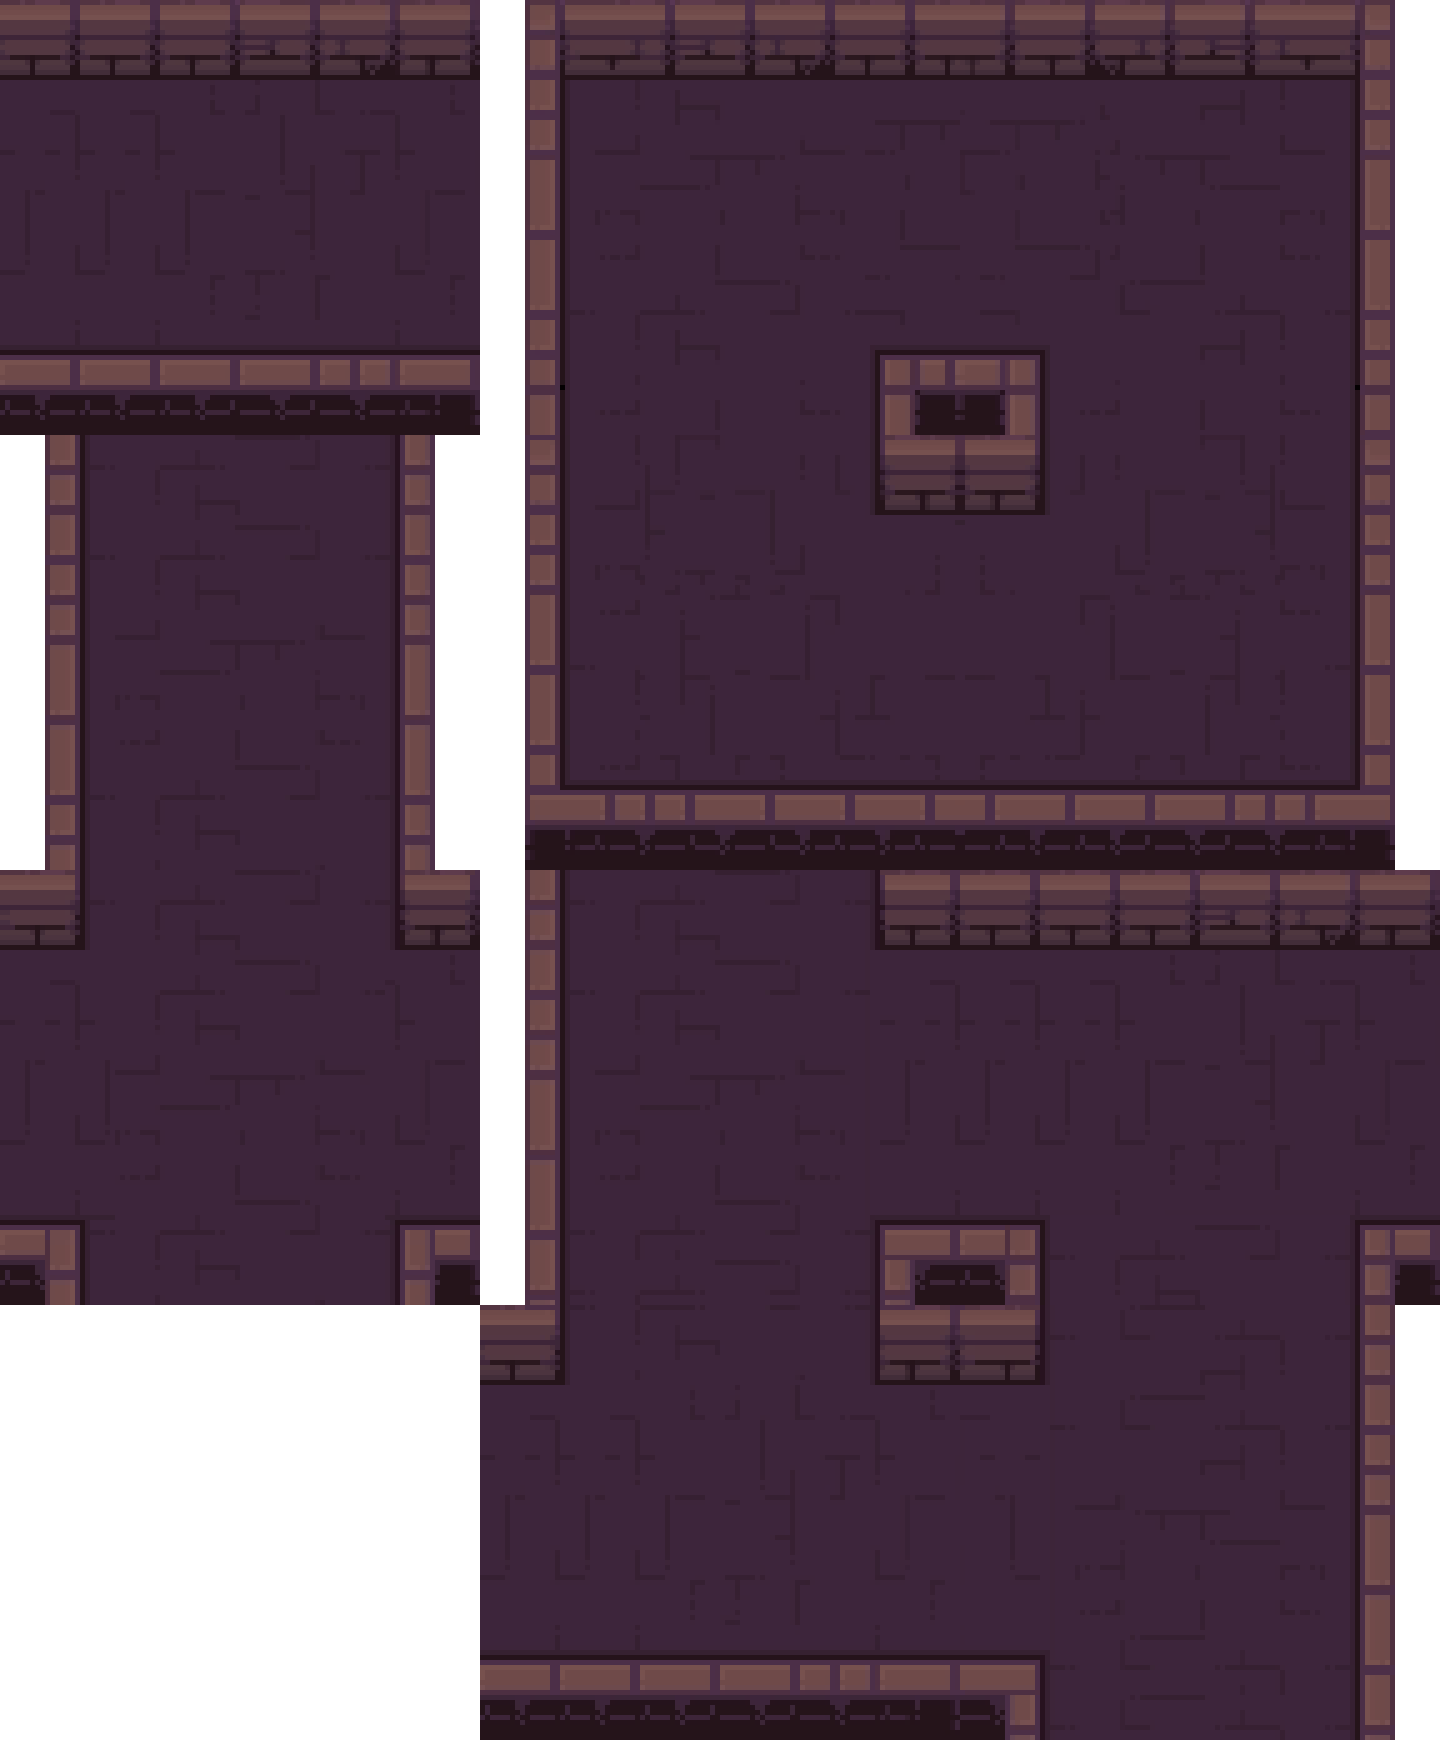
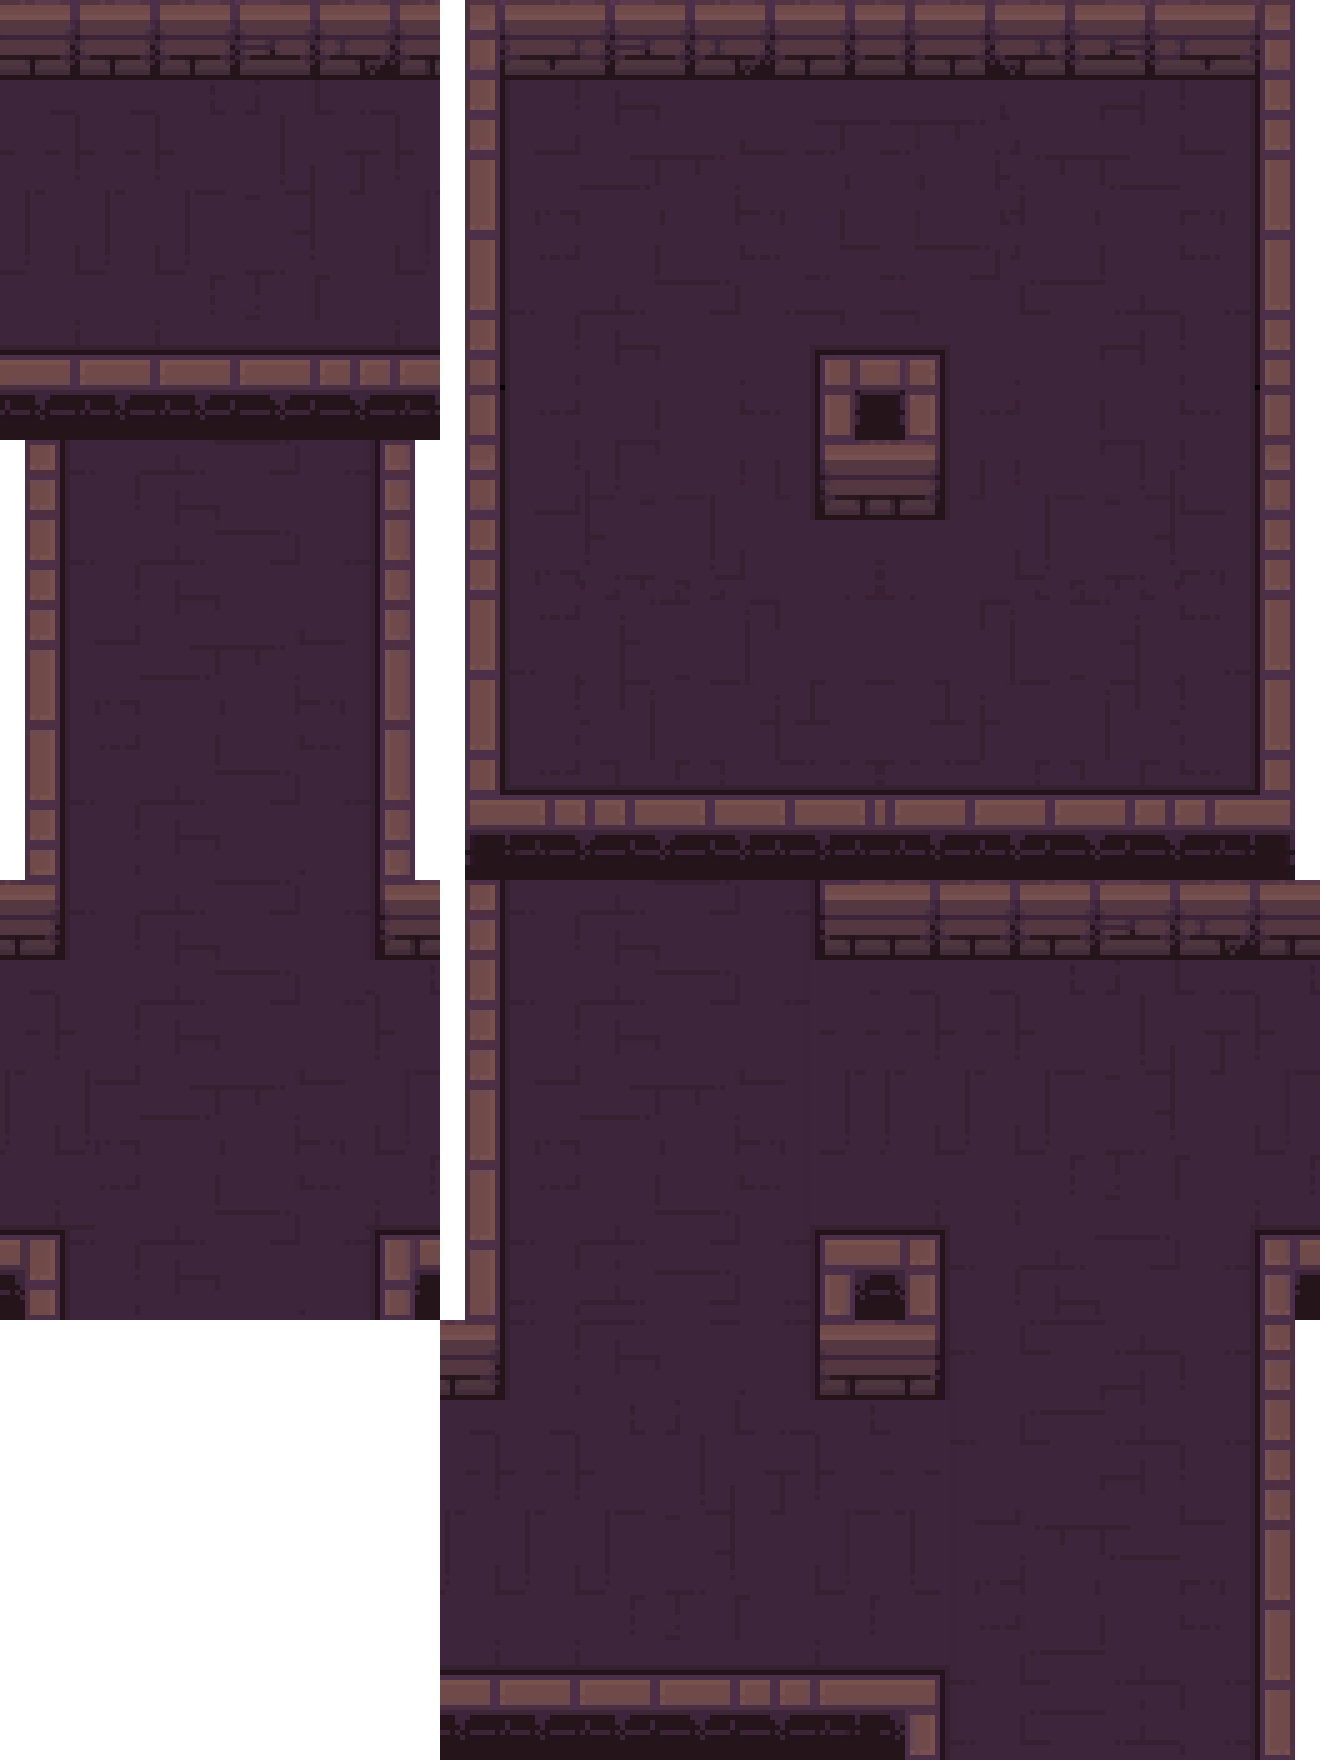
integrated good hallway img

diff --git a/main.js b/main.js
@@ -27,7 +27,7 @@ function keydownListener(event) {
   }
 }
 
-const size = [480, 435];
+const size = 440;
 const lengthRange = [3, 5];
 const segmentNum = 21;
 let allTiles;
@@ -68,9 +68,10 @@ let corridorTiles = {
 };
 
 class corridorTile {
-  constructor(position, imageCoords) {
+  constructor(position, imageCoords, order) {
     this.position = position;
     this.imageCoords = imageCoords;
+    this.order = order
   }
 
   draw() {
@@ -82,15 +83,13 @@ class corridorTile {
       this.imageCoords[2],
       this.imageCoords[3],
       this.position[0] + playerDisplacement[0],
-      this.position[1] + playerDisplacement[1],
-      size[0],
-      size[1]
+      this.position[1] + playerDisplacement[1], size, size
     );
   }
 }
 
 let vector, nextVector, currentSegmentLength, nextSegmentLength;
-let currentPos = [500 - 480 / 2, cnv.height - 434];
+let currentPos = [500, 500];
 let equal = false;
 function generateCorridors() {
   let previousVectorIndex;
@@ -112,6 +111,7 @@ function generateCorridors() {
       vector = [0, -1];
       nextVector = vectorArr[1][randomVectorIndex];
     } else if (i == segmentNum - 1) {
+      currentSegmentLength = randomInt(lengthRange[0], lengthRange[1]);
       nextVector = [0, 0];
       vector = [0, -1];
     } else {
@@ -119,7 +119,9 @@ function generateCorridors() {
         randomVectorIndex
       ];
     }
+    console.log(i)
     nextSegmentLength = randomInt(lengthRange[0], lengthRange[1]);
+    console.log(currentSegmentLength)
 
     if (vector[0] == 0) {
       //vertical
@@ -130,19 +132,20 @@ function generateCorridors() {
       fixCorridors(corridorTiles.vertical, [0, 1], i);
       corridorTiles.horizontal.push([]);
     }
-
+    console.log("new")
+    console.log(currentSegmentLength)
     for (let m = 0; m < currentSegmentLength; m++) {
-      currentPos[0] += size[0] * vector[0];
-      currentPos[1] += size[1] * vector[1];
+      currentPos[0] += size * vector[0];
+      currentPos[1] += size * vector[1];
       let img = assignImages(m, currentSegmentLength);
       console.log(img);
       if (vector[0] === 0) {
         corridorTiles.vertical[corridorTiles.vertical.length - 1].push(
-          new corridorTile([currentPos[0], currentPos[1]], img)
+          new corridorTile([currentPos[0], currentPos[1]], img, m)
         );
       } else {
         corridorTiles.horizontal[corridorTiles.horizontal.length - 1].push(
-          new corridorTile([currentPos[0], currentPos[1]], img)
+          new corridorTile([currentPos[0], currentPos[1]], img, m)
         );
       }
     }
@@ -157,18 +160,17 @@ function generateCorridors() {
 }
 
 function fixCorridors(segmentOrientation, pos, segmentIndex) {
-  let posOrNeg = [-435, 435][randomInt(0, 2)];
-
+  let posOrNeg = [-1, 1][randomInt(0, 2)];
   firstLoop: for (let w = 0; w < segmentOrientation.length; w++) {
     const segmentTile1 = segmentOrientation[w][0].position[pos[0]];
     //vector[pos[0]] is either 1 or -1
     const segmentLength =
-      size[pos[0]] * (vector[pos[0]] * currentSegmentLength);
+      size * (vector[pos[0]] * currentSegmentLength);
     let finalPixel = [currentPos[pos[0]] + segmentLength, currentPos[pos[1]]];
 
     if (
-      finalPixel[0] >= segmentTile1 - 435 &&
-      finalPixel[0] <= segmentTile1 + 435
+      finalPixel[0] >= segmentTile1 - 440 &&
+      finalPixel[0] <= segmentTile1 + 440
     ) {
       let segmentPos = [];
 
@@ -179,7 +181,7 @@ function fixCorridors(segmentOrientation, pos, segmentIndex) {
         let nextSegmentPos = [];
         for (let e = 0; e < nextSegmentLength; e++) {
           nextSegmentPos.push(
-            finalPixel[1] + size[pos[0]] * (nextVector[pos[1]] * e)
+            finalPixel[1] + size * (nextVector[pos[1]] * e)
           );
         }
 
@@ -187,16 +189,13 @@ function fixCorridors(segmentOrientation, pos, segmentIndex) {
           if (segmentPos.includes(nextSegmentPos[x])) {
             equal = true;
             let diff = segmentTile1 - finalPixel[0];
+            console.log(diff)
+            console.log(diff / size)
             if (vector[pos[0]] > 0) {
-              currentSegmentLength += diff;
+              currentSegmentLength += (diff / size);
             } else {
-              currentSegmentLength -= diff;
+              currentSegmentLength -= (diff / size);
             }
-            console.log("good");
-            finalPixel = [
-              currentPos[pos[0]] + vector[pos[0]] * currentSegmentLength,
-              currentPos[pos[1]],
-            ];
 
             break firstLoop;
           }
@@ -223,7 +222,7 @@ function fixDuplicates() {
         testArr.indexOf(coord) !== i
     );
     if (duplicatesOfi.length !== 0) {
-      console.log("adjusted");
+      //Do corners here
       testArr.splice(i, 1);
       allTiles.splice(i, 1);
     }
@@ -240,9 +239,9 @@ function assignImages(index, length) {
   let tileImg;
   if (index !== length - 1) {
     if (vector[0] === 0) {
-      tileImg = [0, 435, 480, 435];
+      tileImg = [0, 440, 440, 440];
     } else {
-      tileImg = [0, 0, 480, 435];
+      tileImg = [0, 0, 440, 440];
     }
   } else {
     if (
@@ -251,30 +250,30 @@ function assignImages(index, length) {
       (JSON.stringify(vector) === "[-1,0]" &&
         JSON.stringify(nextVector) === "[0,1]")
     ) {
-      tileImg = [480, 0, 480, 434];
+      tileImg = [440, 0, 440, 440];
     } else if (
       (JSON.stringify(vector) === "[1,0]" &&
         JSON.stringify(nextVector) === "[0,1]") ||
       (JSON.stringify(vector) === "[0,-1]" &&
         JSON.stringify(nextVector) === "[-1,0]")
     ) {
-      tileImg = [960, 0, 480, 434];
+      tileImg = [880, 0, 440, 440];
     } else if (
       (JSON.stringify(vector) === "[0,1]" &&
         JSON.stringify(nextVector) === "[1,0]") ||
       (JSON.stringify(vector) === "[-1,0]" &&
         JSON.stringify(nextVector) === "[0,-1]")
     ) {
-      tileImg = [480, 434, 480, 434];
+      tileImg = [440, 440, 440, 440];
     } else if (
       (JSON.stringify(vector) === "[1,0]" &&
         JSON.stringify(nextVector) === "[0,-1]") ||
       (JSON.stringify(vector) === "[0,1]" &&
         JSON.stringify(nextVector) === "[-1,0]")
     ) {
-      tileImg = [960, 434, 480, 434];
+      tileImg = [880, 440, 440, 440];
     } else if (JSON.stringify(nextVector) === "[0,0]") {
-      tileImg = [0, 435, 435, 435];
+      tileImg = [0, 440, 440, 440];
     }
   }
   return tileImg;
@@ -291,7 +290,7 @@ function loadTorches() {
         16,
         26,
         tile.position[0] + 30 + playerDisplacement[0],
-        tile.position[1] + size[1] / 2 + playerDisplacement[1],
+        tile.position[1] + size / 2 + playerDisplacement[1],
         16,
         26
       );
@@ -303,7 +302,7 @@ function loadTorches() {
         16,
         26,
         tile.position[0] + 348 + playerDisplacement[0],
-        tile.position[1] + size[1] / 2 + playerDisplacement[1],
+        tile.position[1] + size / 2 + playerDisplacement[1],
         16,
         26
       );
@@ -428,15 +427,13 @@ function playerAnim() {
 }
 
 function loop() {
-  ctx.fillStyle = "rgb(46, 23, 39)";
+  ctx.fillStyle = "rgb(18, 0, 10)";
   ctx.fillRect(0, 0, cnv.width, cnv.height);
   for (let i = 0; i < allTiles.length; i++) {
     allTiles[i].draw();
   }
-  loadTorches();
+
   playerAnim();
-  ctx.fillStyle = "rgba(0, 0, 0, 0.3)";
-  ctx.fillRect(0, 0, cnv.width, cnv.height);
   flicker();
   requestAnimationFrame(loop);
 }

diff --git a/index.html b/index.html
@@ -7,7 +7,7 @@
         <canvas id="cnv"></canvas>
         <img src="img/hallways.png" id="hallwaysPng">
         <img src="img/items.png" id="itemsPng">
-        <img src="img/ladder" id="ladderImg">
+        <img src="img/ladder.png" id="ladderImg">
         <script src="main.js"></script>
     </body>
 </html>
